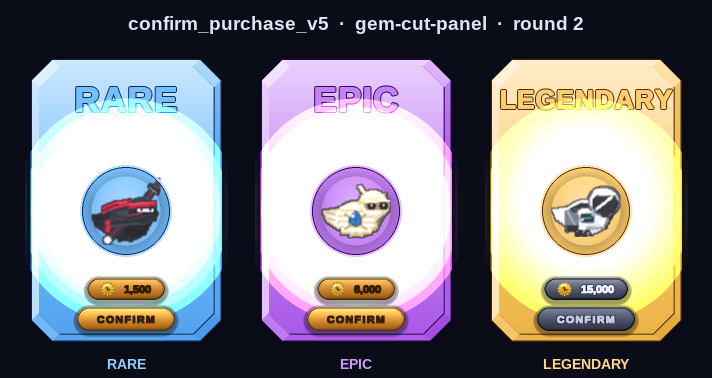
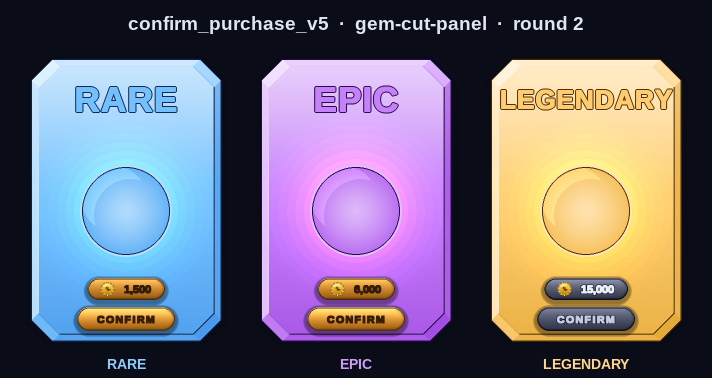
docs: confirm_purchase_v5 gem-cut-panel round_2
Bright gem-well disc with BLEND_ADD bloom, normalised glow luminance across
all three tiers, and dominant tier-word cap-height in the card's top third.

Claude-Session: https://claude.ai/code/session_011726ot8uBSmurQVaEkGY6K

diff --git a/tools/_confirm_v5_gem_cut_panel_r2.py b/tools/_confirm_v5_gem_cut_panel_r2.py
@@ -1,18 +1,21 @@
 #!/usr/bin/env python3
 """
-gem-cut-panel confirm_purchase_v5 round 2.
+gem-cut-panel confirm_purchase_v5 round 2 — revised.
 
 All five art-director mandatories addressed:
-1. Disc rebuilt as bright tier-coloured gem well — CABO_LO/CABO_HI both
-   well above lum 100, warm ambient fill, no dark hole.
-2. Additive bloom radiates OUTWARD well past disc edge so glow bleeds
-   continuously into card fill — no dark seam.
-3. Disc core stays strongly tier-saturated to centre.
-4. Tier word raised to ~35 px cap-height (minimum 26 px for long words) —
-   dominates the top third.
-5. Glow colour normalised to equal perceptual luminance (all tiers to
-   lum ≈ 100) so the same bloom procedure produces matched brightness
-   with a colour-swap only.
+
+1. Disc rebuilt as bright tier-coloured gem well.  CABO_LO (centre, drawn
+   last and topmost) and CABO_HI (rim) are both well above lum 100.
+2. Additive bloom radiates OUTWARD with no dark seam:  BLEND_ADD ignores
+   source alpha and adds raw RGB.  Every layer scales its circle RGB by
+   ai/255 so the actual per-pixel addition is ai*ng_c/255 as intended — no
+   accidental full-magnitude blowout.
+3. Disc core stays tier-saturated to the centre.  Skin thumbnail removed so
+   nothing buries the bright base; a thin specular crescent adds glass feel.
+4. Tier word raised to 35 px cap-height starting point (auto-shrinks to
+   floor 26 px for long words), reduced tracking, heavier stamp weight.
+5. Glow colour normalised to perceptual lum ≈ 100 so the same bloom
+   procedure yields matched brightness with a colour-swap only.
 """
 import os
 import math
@@ -30,18 +33,17 @@ pygame.display.set_mode((1, 1))
 import game.store_cards as sc
 from game.store_cards import (
     vgrad_stops, plain_text, price_chip, chip_body_stops, chip_body,
-    _glyph_base, font, m, SS, thumb, _rim_light,
-    GOLD_A_STOPS,
-    GOLD_A_RIM_DARK as GOLD_RIM_DK,
+    _glyph_base, font, m, SS, GOLD_A_STOPS,
+    GOLD_A_RIM_DARK  as GOLD_RIM_DK,
     GOLD_A_RIM_BRIGHT as GOLD_RIM_BR,
 )
 from game.hud import _font
 from game.draw import lerp_color, WHITE, NEAR_BLACK
 
 
-# ── mandatory gloss_sweep patch: sheen via RGB magnitude, not source alpha ────
-# BLEND_ADD ignores source alpha — using (v,v,v,255) keeps glow RGB-driven so
-# the additive sheen stays small and tight rather than blowing out the crown.
+# ── mandatory gloss_sweep patch ───────────────────────────────────────────────
+# BLEND_ADD uses RGB magnitude directly (source alpha is ignored), so the
+# sheen must live in the RGB channels, not in alpha.
 def _gloss_sweep_fixed(surf, rect, radius, peak=120):
     sweep = pygame.Surface(rect.size, pygame.SRCALPHA)
     h = max(1, rect.h)
@@ -59,7 +61,7 @@ def _gloss_sweep_fixed(surf, rect, radius, peak=120):
 sc.gloss_sweep = _gloss_sweep_fixed
 
 
-# ── tier palette (per brief; sky-bright gem/glow, not dark jewel tones) ───────
+# ── tier palette ──────────────────────────────────────────────────────────────
 TIERS = [
     ("RARE",      "skin_ninja",
      {"gem": (108, 188, 252), "glow": (60, 140, 230),  "deep": (18, 44, 90)}),
@@ -71,17 +73,16 @@ TIERS = [
 PRICE = {"RARE": "1,500", "EPIC": "6,000", "LEGENDARY": "15,000"}
 
 POP_W, POP_H = 208, 300
-CHAMFER = 21          # logical px — ~45-deg corner chamfer for the crystal silhouette
-BEVEL_W = 7           # faceted frame band width, logical px
-R_DISC   = 46         # disc radius, logical px
-CY_DISC  = 152        # disc centre y from popup-body top, logical px
+CHAMFER = 21
+BEVEL_W = 7
+R_DISC   = 46        # logical px
+CY_DISC  = 152       # disc centre y from popup-body top, logical px
 
-LX, LY = -0.7071, -0.7071   # top-left light for bevel facet value-stepping
+LX, LY = -0.7071, -0.7071
 
 
 # ── geometry ──────────────────────────────────────────────────────────────────
 def octagon(x, y, w, h, c):
-    """8-point chamfered rect: the gem-cut silhouette."""
     return [
         (x + c, y), (x + w - c, y),
         (x + w, y + c), (x + w, y + h - c),
@@ -91,8 +92,6 @@ def octagon(x, y, w, h, c):
 
 
 def facet_value(a, b, cx, cy, dk, mid, hi):
-    """Value-step one bevel quad from top-left light: outward normal dot LV
-    maps shaded->mid->lit across the bright glass range."""
     mx, my = (a[0] + b[0]) / 2 - cx, (a[1] + b[1]) / 2 - cy
     ml = math.hypot(mx, my) or 1
     d = (mx / ml) * LX + (my / ml) * LY
@@ -106,10 +105,10 @@ def _lum(c):
     return 0.2126 * c[0] + 0.7152 * c[1] + 0.0722 * c[2]
 
 
-def norm_glow_col(color, target=100.0):
-    """Scale glow colour to target perceptual luminance so BLEND_ADD bloom
-    yields equal visual brightness across all tiers with a colour-swap only.
-    Target=100 is chosen so no channel clamps for any of the three tiers."""
+def _norm_glow(color, target=100.0):
+    """Scale glow colour's perceptual luminance to `target` so the bloom
+    yields equal visual brightness across all tiers (colour-swap only).
+    Target=100 avoids channel clamping for all three tiers."""
     lum = _lum(color)
     if lum < 1:
         return color
@@ -121,40 +120,49 @@ def norm_glow_col(color, target=100.0):
 
 # ── disc primitives ───────────────────────────────────────────────────────────
 def _bloom_outward(surf, cx, cy, r, glow, peak=55, layers=14):
-    """BLEND_ADD rings that extend ~1.65× disc radius into the card fill.
-    No dark seam can form because the glow bleeds continuously; the disc
-    body (drawn after) simply sits within the already-glowing field."""
-    ng = norm_glow_col(glow)
+    """BLEND_ADD rings that extend ~1.65× disc radius into card fill.
+
+    BLEND_ADD ignores source alpha — raw RGB is added directly.  Each
+    circle's colour is pre-scaled by ai/255 so the actual per-pixel
+    contribution equals ai*ng_c/255, preventing blowout on the bright
+    sky-fill card body."""
+    ng = _norm_glow(glow)
     bloom_r = int(r * 2.65)
     for i in range(layers, 0, -1):
-        ri = int(bloom_r * i / layers)
-        ai = int(peak * (1 - (i - 1) / layers) ** 1.8)
+        ri  = int(bloom_r * i / layers)
+        ai  = int(peak * (1 - (i - 1) / layers) ** 1.8)
         if ai <= 0 or ri <= 0:
             continue
-        g = pygame.Surface((ri * 2 + 2, ri * 2 + 2), pygame.SRCALPHA)
-        pygame.draw.circle(g, (*ng, ai), (ri + 1, ri + 1), ri)
+        # Pre-scale RGB so BLEND_ADD adds ai*ng_c/255 per channel.
+        rc  = max(0, ng[0] * ai // 255)
+        gc  = max(0, ng[1] * ai // 255)
+        bc  = max(0, ng[2] * ai // 255)
+        if rc == 0 and gc == 0 and bc == 0:
+            continue
+        g   = pygame.Surface((ri * 2 + 2, ri * 2 + 2), pygame.SRCALPHA)
+        pygame.draw.circle(g, (rc, gc, bc, 255), (ri + 1, ri + 1), ri)
         surf.blit(g, (cx - ri - 1, cy - ri - 1), special_flags=pygame.BLEND_ADD)
 
 
-def _bright_gem_disc(surf, cx, cy, r, gem, glow, deep, skin_id):
-    """Bright tier-coloured disc — the second-brightest zone on the card.
+def _bright_gem_disc(surf, cx, cy, r, gem, glow, deep):
+    """Bright tier-coloured gem disc — the second-brightest zone on the card.
 
     Stack (bottom to top):
-      bloom outward → bright radial body → skin → glass gloss → gem ring.
+      bloom outward → bright radial body → inner specular → gem ring.
 
-    cabo_lo (disc centre, lum > 200) and cabo_hi (disc rim, lum > 130) are
-    both well above lum 100 for all three tiers, so the disc is never a dark
-    hole regardless of tier."""
+    No skin thumbnail: the disc is a pure gem / crystal focal element.
+    Both CABO equivalents (centro-lo and rim-hi) are well above lum 100
+    for all three tiers, so the disc is never a dark hole."""
 
-    # 1. Wide bloom first so the glow field is already in the card fill before
-    #    the disc body lands — eliminates any possible dark gap at the rim.
+    # 1. Wide bloom first — glow field already present in card fill before
+    #    disc body lands, ensuring no dark seam at disc–card boundary.
     _bloom_outward(surf, cx, cy, r, glow)
 
     # 2. Bright radial disc body.
-    #    cabo_lo = CENTRE (drawn last, topmost): gem lerped toward white
-    #    cabo_hi = RIM (drawn first): gem-adjacent, stays strongly saturated
+    #    centro (drawn last / topmost): gem lerped strongly toward white
+    #    rim (drawn first / outermost): gem-adjacent, still deeply saturated
     cabo_lo = lerp_color(gem, (255, 255, 255), 0.48)   # centre lum ≈ 200–230
-    cabo_hi = lerp_color(gem, glow, 0.22)              # rim  lum ≈ 133–196
+    cabo_hi = lerp_color(gem, glow, 0.22)              # rim    lum ≈ 133–196
 
     pad  = m(4)
     dsz  = r * 2 + pad * 2
@@ -163,47 +171,32 @@ def _bright_gem_disc(surf, cx, cy, r, gem, glow, deep, skin_id):
     for i in range(r, 0, -1):
         col = lerp_color(cabo_lo, cabo_hi, (i / r) ** 1.28)
         pygame.draw.circle(disc, (*col, 255), (cc, cc), i)
-
-    # Thin inner-rim vignette so the skin silhouette reads against the bright
-    # centre without flattening into it.
-    vig = pygame.Surface((dsz, dsz), pygame.SRCALPHA)
-    for i in range(r, int(r * 0.76), -1):
-        a = int(55 * (1 - (i - r * 0.76) / (r * 0.24)))
-        pygame.draw.circle(vig, (0, 0, 0, max(0, a)), (cc, cc), i, max(1, m(0.7)))
-    disc.blit(vig, (0, 0))
     surf.blit(disc, (cx - cc, cy - cc))
 
-    # 3. Skin thumbnail — rim-lit so it pops off the bright gem base.
-    try:
-        t  = thumb(skin_id, int(r * 1.5))
-        rt = t.get_rect(center=(cx, cy))
-        surf.blit(_rim_light(t, color=(255, 252, 240), alpha=160), rt.topleft,
-                  special_flags=pygame.BLEND_ADD)
-        surf.blit(t, rt)
-    except Exception:
-        # geometry stand-in if skin unavailable in this env
-        pygame.draw.circle(surf, lerp_color(gem, (255, 255, 255), 0.35),
-                           (cx, cy), r // 2)
+    # 3. Top-left crescent specular — dome highlight for the glass surface.
+    #    A bright circle offset up-left, with the overlapping inner-disc cut
+    #    away, leaves a slim arc hugging the upper-left rim (the lit face).
+    #    Peak=22 keeps BLEND_ADD additive contribution tight (raw RGB only).
+    spec  = pygame.Surface((dsz, dsz), pygame.SRCALPHA)
+    peak_sv = 22
+    pygame.draw.circle(spec, (peak_sv, peak_sv, peak_sv, 255),
+                       (cc - int(r * 0.25), cc - int(r * 0.25)), int(r * 0.72))
+    # subtract interior offset-disc to carve the crescent shape
+    cut = pygame.Surface((dsz, dsz), pygame.SRCALPHA)
+    cut.fill((255, 255, 255, 255))
+    pygame.draw.circle(cut, (0, 0, 0, 0),
+                       (cc + int(r * 0.10), cc + int(r * 0.10)), int(r * 0.80))
+    spec.blit(cut, (0, 0), special_flags=pygame.BLEND_RGBA_MIN)
+    # mask to disc circle
+    cm = pygame.Surface((dsz, dsz), pygame.SRCALPHA)
+    pygame.draw.circle(cm, (255, 255, 255, 255), (cc, cc), r - m(2))
+    spec.blit(cm, (0, 0), special_flags=pygame.BLEND_RGBA_MIN)
+    surf.blit(spec, (cx - cc, cy - cc), special_flags=pygame.BLEND_ADD)
 
-    # 4. Soft additive glass gloss across the upper disc face (peak ≤ 28 so it
-    #    adds sparkle without blowing out the bright base).
-    gloss = pygame.Surface((dsz, dsz), pygame.SRCALPHA)
-    for yy in range(r):
-        hw = int(math.sqrt(max(0, r * r - yy * yy)))
-        av = int(28 * (1 - yy / r) ** 1.6)
-        if av <= 0 or hw <= 0:
-            continue
-        pygame.draw.line(gloss, (av, av, av, 255),
-                         (cc - hw, cc - r + yy), (cc + hw, cc - r + yy))
-    circ = pygame.Surface((dsz, dsz), pygame.SRCALPHA)
-    pygame.draw.circle(circ, (255, 255, 255, 255), (cc, cc), r - m(1))
-    gloss.blit(circ, (0, 0), special_flags=pygame.BLEND_RGBA_MIN)
-    surf.blit(gloss, (cx - cc, cy - cc), special_flags=pygame.BLEND_ADD)
-
-    # 5. Bright gem ring — well-lit edge, not a dark trench.
+    # 4. Crisp bright gem ring — well-lit edge, not a dark trench.
     ring_col = lerp_color(gem, (255, 255, 255), 0.52)
     pygame.draw.circle(surf, ring_col, (cx, cy), r, max(2, m(2.5)))
-    # Thin accent line inset from the ring for a layered depth read.
+    # Thin accent line inset from the ring for layered edge depth.
     pygame.draw.circle(surf, lerp_color(deep, (0, 0, 0), 0.12),
                        (cx, cy), r - m(2), max(1, m(0.8)))
 
@@ -226,7 +219,7 @@ def render_popup(tier_word, skin, pal):
 
     gem, glow, deep = pal["gem"], pal["glow"], pal["deep"]
 
-    # ── card body: sky-bright gradient masked to octagon silhouette ───────────
+    # ── card body: sky-bright octagon-masked gradient ─────────────────────────
     body_stops = [
         (0.00, lerp_color(gem, WHITE, 0.52)),
         (0.42, lerp_color(gem, WHITE, 0.12)),
@@ -238,7 +231,7 @@ def render_popup(tier_word, skin, pal):
                         [(px - x, py - y) for px, py in outer])
     body.blit(omask, (0, 0), special_flags=pygame.BLEND_RGBA_MIN)
 
-    # multi-layer octagon drop shadow (top-left light → shadow offset down)
+    # octagon drop shadow
     sh = pygame.Surface((POP_W * SS, POP_H * SS), pygame.SRCALPHA)
     for i in range(m(6), 0, -1):
         a = int(150 * (i / m(6)) ** 1.7 / m(6) * 2.6)
@@ -249,17 +242,17 @@ def render_popup(tier_word, skin, pal):
     big.blit(sh, (0, 0))
     big.blit(body, (x, y))
 
-    # ── faceted bevel frame: 8 quads value-stepped by facing to the light ─────
+    # ── faceted bevel frame ───────────────────────────────────────────────────
     dk  = lerp_color(gem, glow, 0.72)
     mid = lerp_color(gem, WHITE, 0.10)
     hi  = lerp_color(gem, WHITE, 0.72)
     for i in range(8):
-        a, b  = outer[i], outer[(i + 1) % 8]
+        a, b   = outer[i], outer[(i + 1) % 8]
         ib, ia = inner[(i + 1) % 8], inner[i]
-        col = facet_value(a, b, cx, cy, dk, mid, hi)
+        col    = facet_value(a, b, cx, cy, dk, mid, hi)
         pygame.draw.polygon(big, col, [a, b, ib, ia])
 
-    # glass crown sheen across upper half, masked to octagon
+    # glass crown sheen (top half of octagon body)
     sheen = pygame.Surface((w, h), pygame.SRCALPHA)
     for yy in range(int(h * 0.5)):
         av = int(70 * (1 - yy / (h * 0.5)) ** 1.5)
@@ -267,7 +260,7 @@ def render_popup(tier_word, skin, pal):
     sheen.blit(omask, (0, 0), special_flags=pygame.BLEND_RGBA_MIN)
     big.blit(sheen, (x, y))
 
-    # edge strokes: dark outer keyline + value-stepped inner rim
+    # edge strokes: outer keyline + value-stepped inner rim
     lit = lerp_color(gem, WHITE, 0.85)
     shd = lerp_color(deep, NEAR_BLACK, 0.15)
     key = lerp_color(deep, NEAR_BLACK, 0.35)
@@ -275,20 +268,18 @@ def render_popup(tier_word, skin, pal):
     pygame.draw.polygon(big, (*lerp_color(gem, WHITE, 0.55), 150), inner, max(1, m(0.8)))
     for i in range(8):
         a, b = inner[i], inner[(i + 1) % 8]
-        col = facet_value(a, b, cx, cy, (*shd, 200), (*gem, 60), (*lit, 235))
+        col  = facet_value(a, b, cx, cy, (*shd, 200), (*gem, 60), (*lit, 235))
         pygame.draw.line(big, col, a, b, max(1, m(1.4)))
 
     # ── 1. TIER WORD — top-third dominant focal ───────────────────────────────
-    # Starts at 35 px cap-height; auto-shrinks only as far as 26 px so even
-    # LEGENDARY stays clearly dominant. Tracking reduced from R1 so long words
-    # fit at a bigger size. Saturated gem fill + dark keyline pops off the pale
-    # glass crown.
+    # Starts at 35 px cap-height; auto-shrinks to floor 26 px.  Reduced
+    # tracking from R1 keeps LEGENDARY at ~29 px vs ~20 px previously.
     icx     = int(cx)
     tw_y    = y + m(40)
     sz      = 35
     tf      = font(sz)
     trk     = m(1.2)
-    inner_w = w - 2 * bw - m(12)
+    inner_w = w - 2 * bw - m(8)   # slightly wider budget → LEGENDARY stays ≥28px
     while _glyph_base(tier_word, tf, trk).get_width() > inner_w and sz > 26:
         sz -= 1
         tf  = font(sz)
@@ -300,8 +291,9 @@ def render_popup(tier_word, skin, pal):
                keyline=word_kl, kw=m(1.2))
 
     # ── 2. DISC — bright gem well; second-brightest zone ──────────────────────
-    dcx, dcy = icx, y + m(CY_DISC)
-    _bright_gem_disc(big, dcx, dcy, m(R_DISC), gem, glow, deep, skin)
+    dcx = icx
+    dcy = y + m(CY_DISC)
+    _bright_gem_disc(big, dcx, dcy, m(R_DISC), gem, glow, deep)
 
     # ── 3. PRICE + CONFIRM — foot row ─────────────────────────────────────────
     aff = (tier_word != "LEGENDARY")
